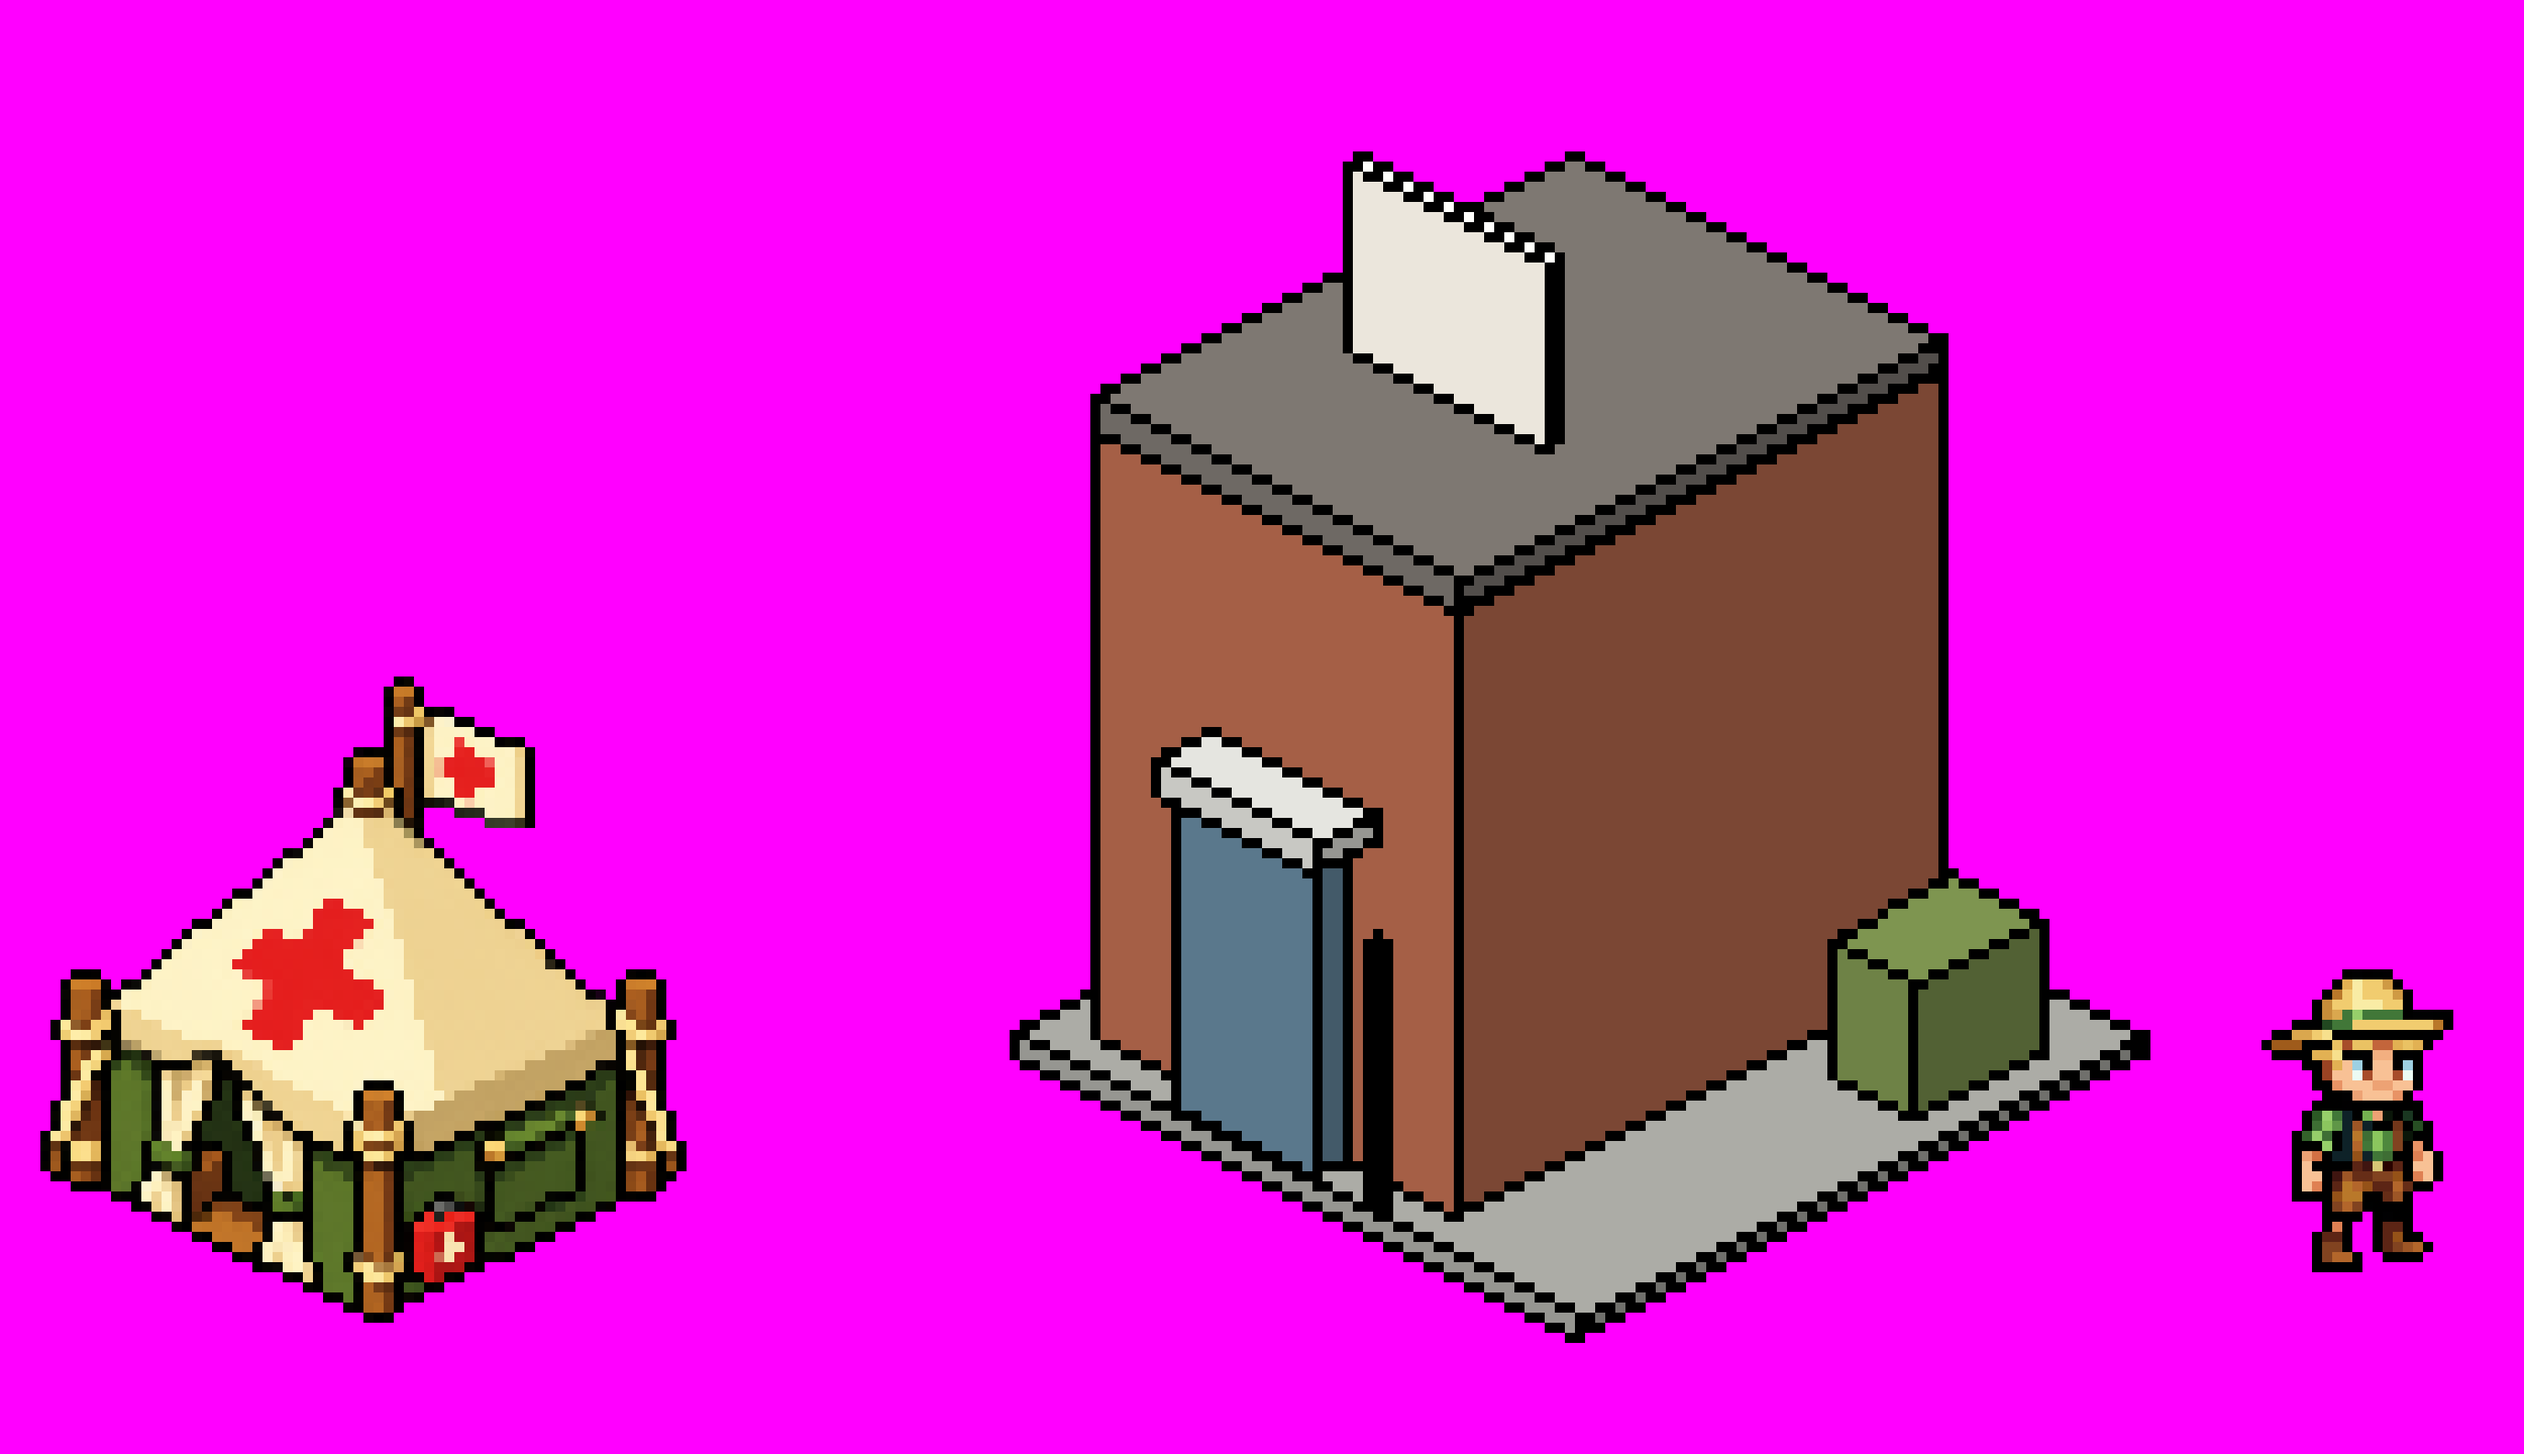
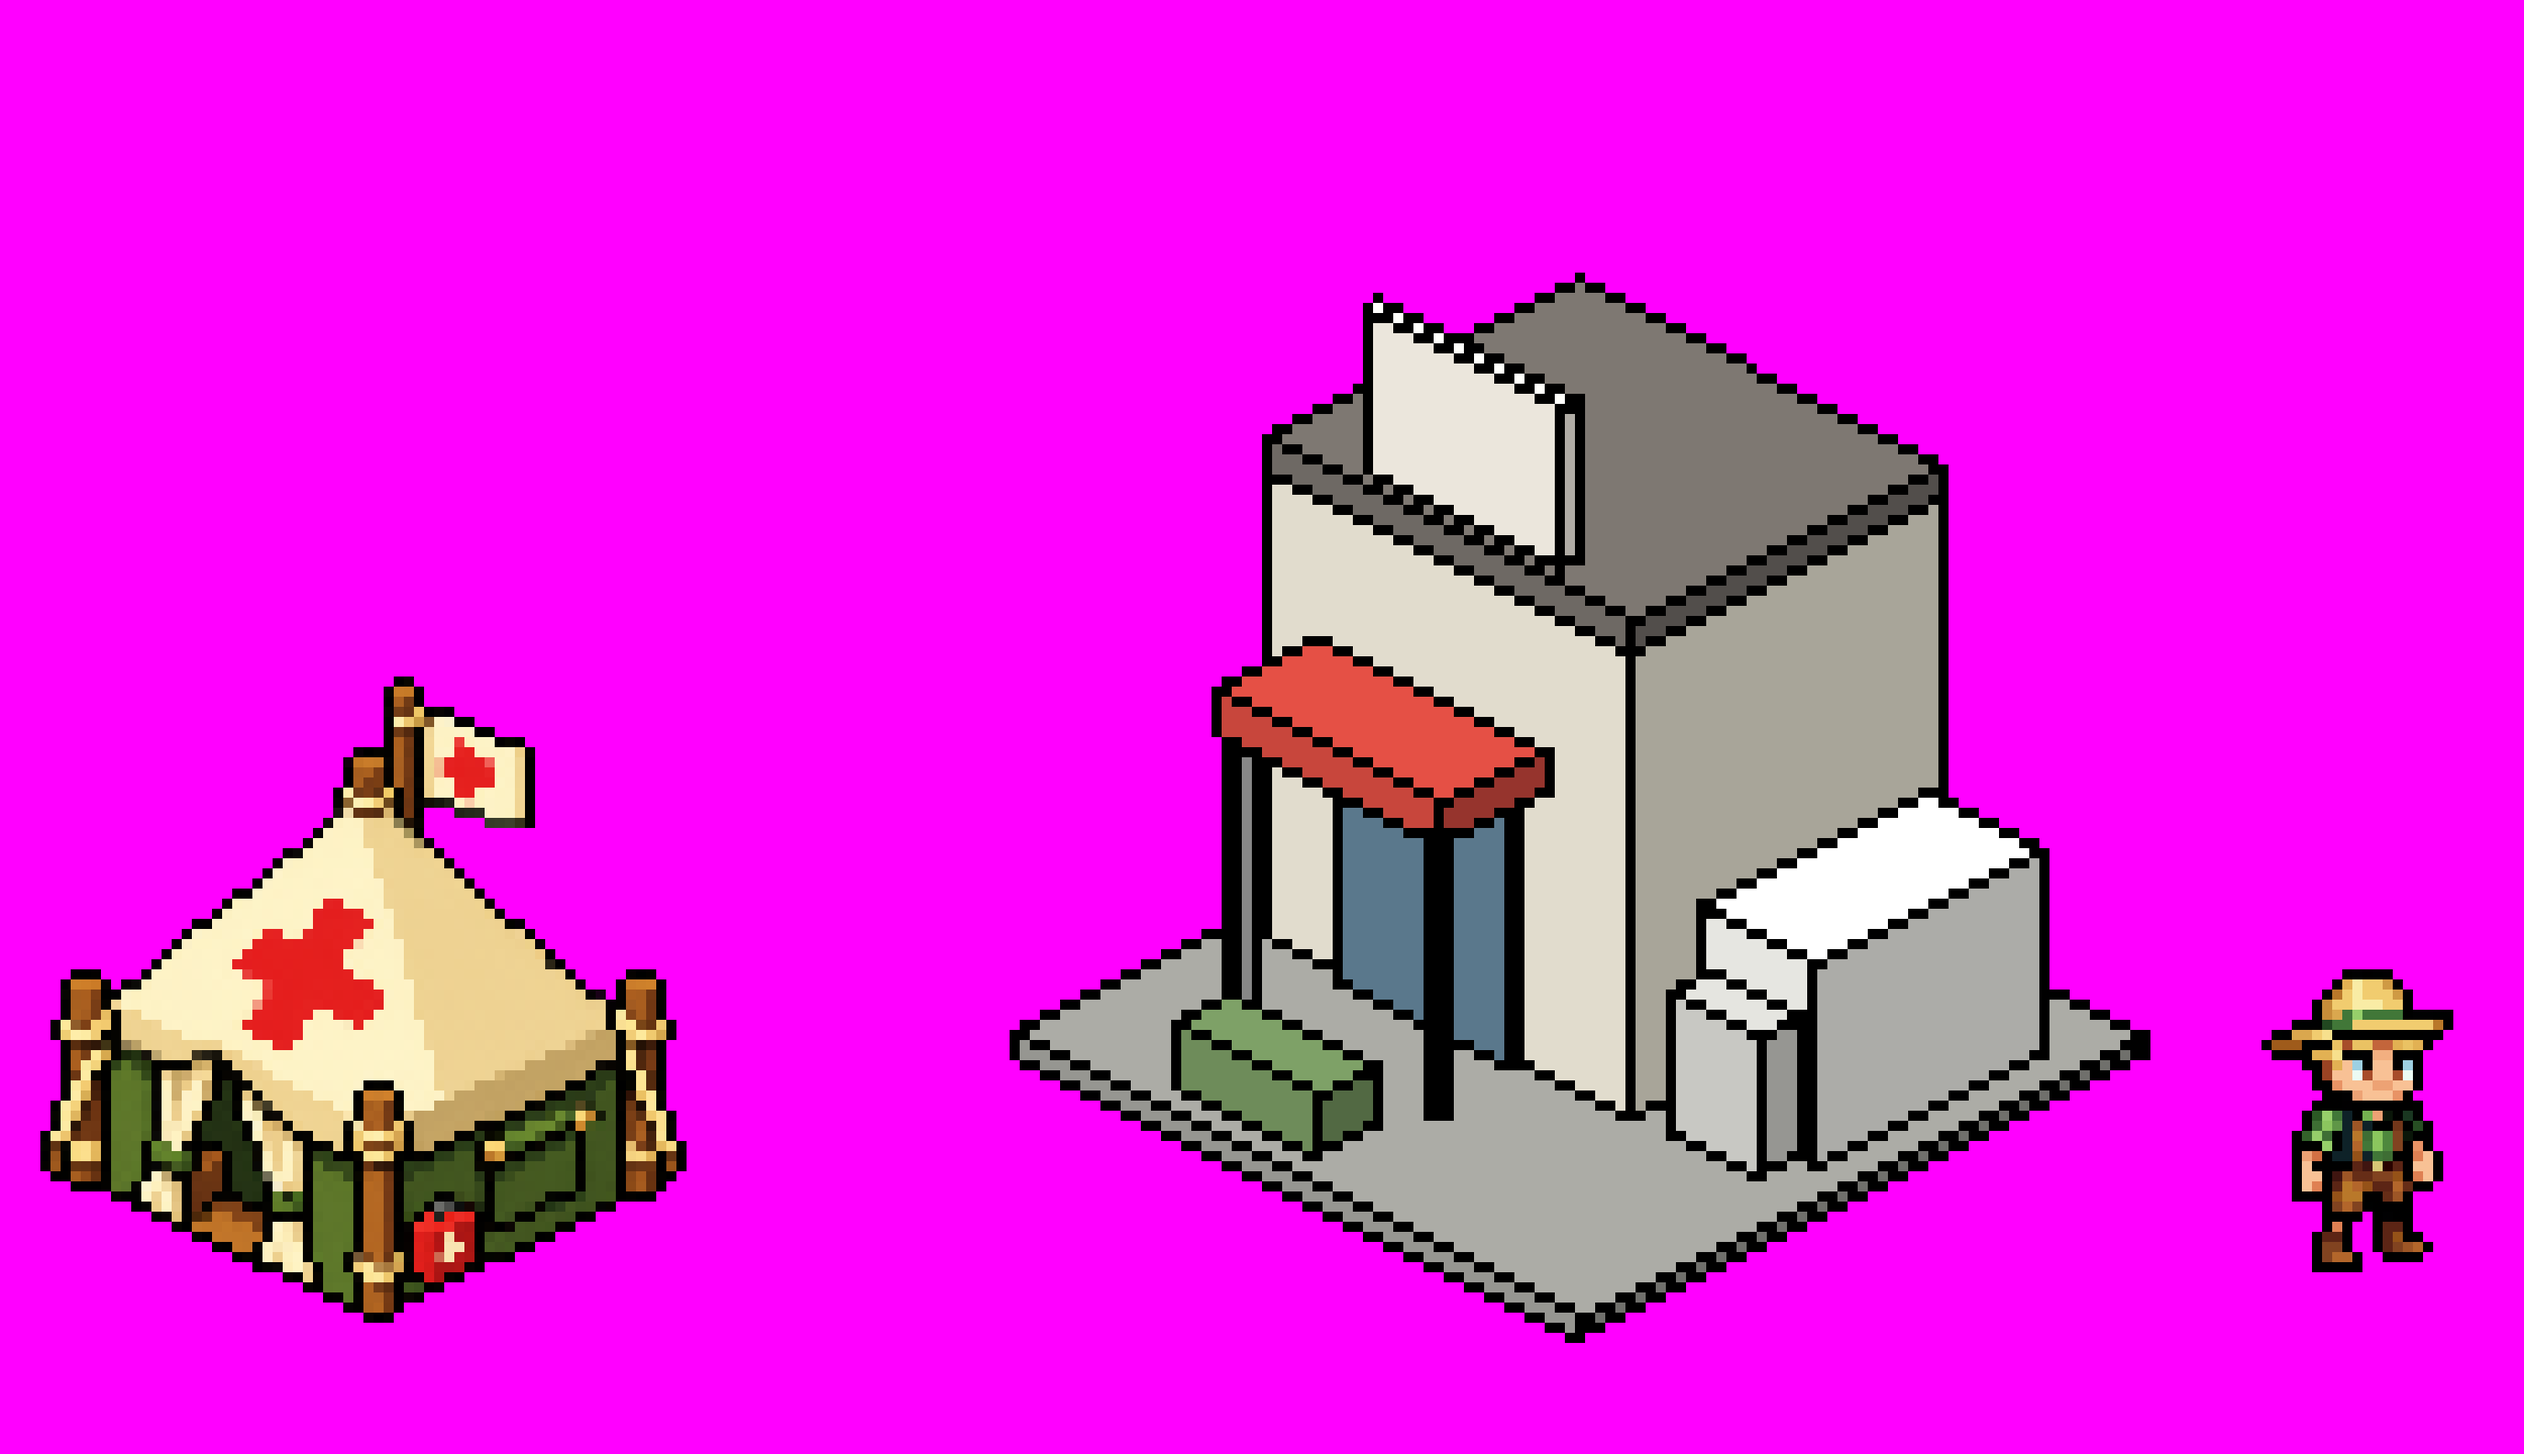
Hospital model v2: low wide block, canopy entrance front-left, ambulance, stretcher
Claude-Session: https://claude.ai/code/session_014xWrqmw1tDuMEr3xW9Kw6Z

Changed region(s): [[0.434, 0.0938, 0.837, 0.8438]]

diff --git a/tools/art/model_hospital.py b/tools/art/model_hospital.py
@@ -1,20 +1,25 @@
 #!/usr/bin/env python3
-"""Colour-block model guide for the 56-tile Hospital (2x2): two-storey patched brick block with a flat roof, a red-cross sign
-on the roof, double doors with a small canopy on the front-left wall, a generator and an IV stand outside."""
+"""Colour-block model guide for the 56-tile Hospital (2x2), v2: a wide, low two-storey clinic block at the back, the entrance
+on its front-left wall with a red canopy on posts, a parked ambulance along its front-right side, a stretcher in the yard and a
+red-cross sign on the roof. (u runs up-right, v down-right; the front-left wall is the u0 face.)"""
 import sys
 sys.path.insert(0, 'tools/art')
 from guide_2x2 import guide
 
-CONC, BRICK, ROOF, SIGN, DOOR, CANOPY, GEN, POLE = (150, 150, 145), (165, 95, 70), (110, 105, 100), (235, 230, 220), (90, 120, 140), (200, 200, 195), (110, 130, 70), (160, 160, 165)
+CONC, WALL, ROOF, SIGN, DOOR, CANOPY, POST, VAN, CAB, STRETCH = ((150, 150, 145), (225, 220, 205), (110, 105, 100),
+    (235, 230, 220), (90, 120, 140), (200, 70, 60), (180, 180, 180), (230, 230, 225), (200, 200, 195), (110, 140, 90))
 OBJ = [  # u0,u1, v0,v1, h0,h1, colour  (2x2: u and v both 0..2, h px)
     (0, 2, 0, 2, 0, 2, CONC),                        # concrete yard
-    (.15, 1.85, .15, 1.45, 2, 62, BRICK),            # two-storey block
-    (.15, 1.85, .15, 1.45, 62, 65, ROOF),            # flat roof with a low parapet
-    (.75, .81, .45, 1.15, 65, 83, SIGN),             # red-cross sign board on the roof, facing front-left
-    (.05, .15, .55, 1.05, 2, 33, DOOR),              # double doors (porch)
-    (.0, .2, .5, 1.1, 33, 36, CANOPY),               # small canopy over the doors
-    (1.3, 1.75, 1.6, 1.9, 2, 15, GEN),               # generator in the front yard
-    (.02, .06, 1.25, 1.29, 2, 28, POLE),             # IV stand by the door
+    (.8, 1.9, .1, 1.4, 2, 48, WALL),                 # two-storey block at the back
+    (.8, 1.9, .1, 1.4, 48, 51, ROOF),                # flat roof
+    (.86, .92, .4, 1.1, 51, 67, SIGN),               # red-cross sign board on the roof's front edge, facing front-left
+    (.75, .8, .4, 1.0, 2, 30, DOOR),                 # wide double doors on the front-left wall
+    (.42, .8, .3, 1.1, 30, 34, CANOPY),              # red entrance canopy on two posts
+    (.44, .49, .32, .37, 2, 30, POST),
+    (.44, .49, 1.03, 1.08, 2, 30, POST),
+    (.95, 1.75, 1.5, 1.9, 2, 22, VAN),               # ambulance along the front-right side: box body
+    (.8, .95, 1.53, 1.87, 2, 16, CAB),               # and its cab
+    (.1, .3, .5, 1.0, 2, 8, STRETCH),                # stretcher in the yard
 ]
 if __name__ == '__main__':
     guide(OBJ, sys.argv[1] if len(sys.argv) > 1 else 'tools/art/templates/t56/model_guide_2x2_hospital.png')
